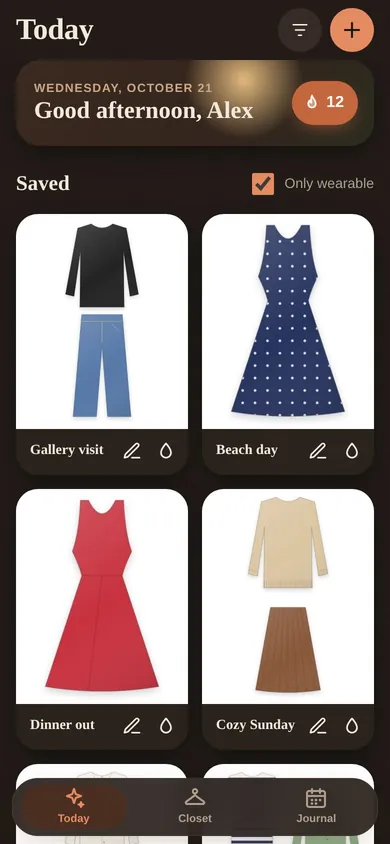
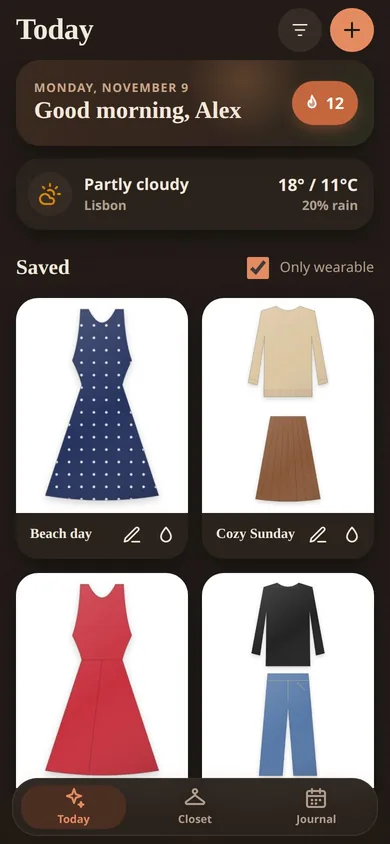
Drop section boxes, mark external links, refresh app screenshots
- Sections are no longer boxed cards: a hairline and whitespace separate
  them, and a soft fade behind the text column keeps it legible over the
  3D stage. Section padding is reduced to match.
- Every link to another site shows an external-link icon and opens in a
  new tab, with a screen-reader hint.
- SchafPlay screenshot replaced with an in-game shot of the redesigned
  app (single image; the app no longer has a dark mode).
- FitFinder screenshots regenerated (adds the weather card); the phone
  now sits beside the whole section and is sized to match the text.

diff --git a/index.html b/index.html
@@ -56,6 +56,7 @@
 <body>
 <svg class="sprite" aria-hidden="true">
   <symbol id="i-close" viewBox="0 0 24 24" fill="none" stroke="currentColor" stroke-width="2" stroke-linecap="round"><path d="M6 6l12 12M18 6 6 18"/></symbol>
+  <symbol id="i-external" viewBox="0 0 24 24" fill="none" stroke="currentColor" stroke-width="2" stroke-linecap="round" stroke-linejoin="round"><path d="M14 4h6v6M20 4l-9 9M18 14v4a2 2 0 0 1-2 2H6a2 2 0 0 1-2-2V8a2 2 0 0 1 2-2h4"/></symbol>
   <symbol id="i-download" viewBox="0 0 24 24" fill="none" stroke="currentColor" stroke-width="2" stroke-linecap="round" stroke-linejoin="round"><path d="M12 4v11m0 0-4.5-4.5M12 15l4.5-4.5M5 20h14"/></symbol>
   <marker id="arrow" viewBox="0 0 10 10" refX="9" refY="5" markerWidth="7" markerHeight="7" orient="auto-start-reverse"><path class="d-h" d="M0 0 10 5 0 10z"/></marker>
   <marker id="arrow-hl" viewBox="0 0 10 10" refX="9" refY="5" markerWidth="7" markerHeight="7" orient="auto-start-reverse"><path class="d-h hl" d="M0 0 10 5 0 10z"/></marker>
@@ -128,8 +129,8 @@
             <svg viewBox="0 0 24 24" fill="none" stroke="currentColor" stroke-width="2" stroke-linecap="round" stroke-linejoin="round" aria-hidden="true"><rect x="3" y="5" width="18" height="14" rx="2.5"/><path d="m4 7 8 6 8-6"/></svg>Email me</a>
           <a class="btn" href="cv/Emanuel-Medina-CV.pdf" download>
             <svg aria-hidden="true"><use href="#i-download"/></svg>Download CV</a>
-          <a class="btn" href="https://github.com/EmanuelMedinaAraujo" rel="me">GitHub</a>
-          <a class="btn" href="https://linkedin.com/in/Emanuel-Medina-Araujo" rel="me">LinkedIn</a>
+          <a class="btn" href="https://github.com/EmanuelMedinaAraujo" rel="me noopener" target="_blank">GitHub<svg aria-hidden="true"><use href="#i-external"/></svg><span class="sr-only"> (opens in a new tab)</span></a>
+          <a class="btn" href="https://linkedin.com/in/Emanuel-Medina-Araujo" rel="me noopener" target="_blank">LinkedIn<svg aria-hidden="true"><use href="#i-external"/></svg><span class="sr-only"> (opens in a new tab)</span></a>
         </div>
         <ul class="skills" aria-label="Core skills">
           <li>C#</li><li>Java</li><li>TypeScript</li><li>Python</li><li>C/C++</li><li>Unity</li><li>React</li><li>PyTorch</li><li>WebRTC</li>
@@ -178,7 +179,7 @@
         </ul>
         <ul class="tagrow" aria-label="Technologies"><li>Unity</li><li>C#</li><li>OpenDRIVE</li><li>Rider</li></ul>
         <div class="links">
-          <a class="btn btn-sm" href="https://www.vector.com/en/product/dyna4/dyna4-releases/">Announced by Vector (DYNA4 Release 10)</a>
+          <a class="btn btn-sm" href="https://www.vector.com/en/product/dyna4/dyna4-releases/" target="_blank" rel="noopener">Announced by Vector (DYNA4 Release 10)<svg aria-hidden="true"><use href="#i-external"/></svg><span class="sr-only"> (opens in a new tab)</span></a>
         </div>
       </div>
     </section>
@@ -196,7 +197,7 @@
         </ul>
         <ul class="tagrow" aria-label="Technologies"><li>Java</li><li>Eclipse RCP</li><li>JUnit</li><li>Jenkins</li></ul>
         <div class="links">
-          <a class="btn btn-sm" href="https://www.vector.com/en/product/dyna4/">DYNA4 at Vector</a>
+          <a class="btn btn-sm" href="https://www.vector.com/en/product/dyna4/" target="_blank" rel="noopener">DYNA4 at Vector<svg aria-hidden="true"><use href="#i-external"/></svg><span class="sr-only"> (opens in a new tab)</span></a>
         </div>
       </div>
     </section>
@@ -214,7 +215,7 @@
         <ul class="tagrow" aria-label="Technologies"><li>React</li><li>TypeScript</li><li>Supabase</li><li>Post-quantum encryption</li></ul>
         <div class="links">
           <a class="btn btn-sm btn-primary" href="#deep-loveneverdies" data-deep="deep-loveneverdies">Deep dive</a>
-          <a class="btn btn-sm" href="https://github.com/EmanuelMedinaAraujo/LoveNeverDies">Source on GitHub</a>
+          <a class="btn btn-sm" href="https://github.com/EmanuelMedinaAraujo/LoveNeverDies" rel="noopener" target="_blank">Source on GitHub<svg aria-hidden="true"><use href="#i-external"/></svg><span class="sr-only"> (opens in a new tab)</span></a>
         </div>
       </div>
     </section>
@@ -226,14 +227,13 @@
         <p class="sub">React / TypeScript / WebRTC</p>
         <p>Schafkopf, the Bavarian card game, to play solo or with a friend on the same Wi-Fi. <b>No accounts and no server</b>: two devices connect directly through a QR code or link, and computer players fill the other seats. Each device only ever receives its own cards, so <b>nobody can peek</b>.</p>
         <figure class="shot">
-          <img class="img-light" src="assets/schafplay-light.webp" width="844" height="390" loading="lazy" decoding="async" alt="SchafPlay pairing screen with host, guest and solo modes and a compressed invite code.">
-          <img class="img-dark" src="assets/schafplay-dark.webp" width="844" height="390" loading="lazy" decoding="async" alt="">
+          <img src="assets/schafplay-table.webp" width="1266" height="585" loading="lazy" decoding="async" alt="A SchafPlay round in progress: three computer players around a wooden table in an Alpine meadow have played their cards, and the player's hand of eight cards is fanned out at the bottom.">
         </figure>
         <ul class="tagrow" aria-label="Technologies"><li>React</li><li>TypeScript</li><li>WebRTC</li><li>Offline app (PWA)</li></ul>
         <div class="links">
           <a class="btn btn-sm btn-primary" href="#deep-schafplay" data-deep="deep-schafplay">Deep dive</a>
-          <a class="btn btn-sm" href="https://emanuelmedinaaraujo.github.io/SchafPlay/">Play it</a>
-          <a class="btn btn-sm" href="https://github.com/EmanuelMedinaAraujo/SchafPlay">Source</a>
+          <a class="btn btn-sm" href="https://emanuelmedinaaraujo.github.io/SchafPlay/" rel="noopener" target="_blank">Play it<svg aria-hidden="true"><use href="#i-external"/></svg><span class="sr-only"> (opens in a new tab)</span></a>
+          <a class="btn btn-sm" href="https://github.com/EmanuelMedinaAraujo/SchafPlay" rel="noopener" target="_blank">Source<svg aria-hidden="true"><use href="#i-external"/></svg><span class="sr-only"> (opens in a new tab)</span></a>
         </div>
       </div>
     </section>
@@ -259,7 +259,7 @@
         <div class="links">
           <a class="btn btn-sm btn-primary" href="#deep-thesis" data-deep="deep-thesis">Deep dive</a>
           <a class="btn btn-sm" href="papers/learning-based-inverse-kinematics.pdf">Read the thesis (PDF, 46 pages)</a>
-          <a class="btn btn-sm" href="https://github.com/EmanuelMedinaAraujo/BachelorThesis">Source on GitHub</a>
+          <a class="btn btn-sm" href="https://github.com/EmanuelMedinaAraujo/BachelorThesis" rel="noopener" target="_blank">Source on GitHub<svg aria-hidden="true"><use href="#i-external"/></svg><span class="sr-only"> (opens in a new tab)</span></a>
           <a class="btn btn-sm" href="papers/numerical-inverse-kinematics.pdf">2023 seminar paper (PDF)</a>
         </div>
       </div>
@@ -267,13 +267,13 @@
 
     <section class="sec" id="fitfinder" aria-labelledby="ff-title">
       <div class="card">
+        <figure class="shot phone inline">
+          <img class="img-light" src="assets/fitfinder-today-light.webp" width="390" height="844" loading="lazy" decoding="async" alt="FitFinder Today screen with a greeting, today’s weather and saved outfits that are wearable now.">
+          <img class="img-dark" src="assets/fitfinder-today-dark.webp" width="390" height="844" loading="lazy" decoding="async" alt="">
+        </figure>
         <p class="kicker"><span class="n">06</span> Side project</p>
         <h2 id="ff-title">FitFinder</h2>
         <p class="sub">Wardrobe organizer · iPhone web app</p>
-        <figure class="shot phone inline">
-          <img class="img-light" src="assets/fitfinder-today-light.webp" width="390" height="844" loading="lazy" decoding="async" alt="FitFinder Today screen showing saved outfits that are wearable now.">
-          <img class="img-dark" src="assets/fitfinder-today-dark.webp" width="390" height="844" loading="lazy" decoding="async" alt="">
-        </figure>
         <p>Your whole wardrobe on your phone: photograph each piece once, sort it, put outfits together and pick <b>today’s</b> in seconds. Works offline.</p>
         <ul class="tagrow" aria-label="Technologies"><li>TypeScript</li><li>Vite</li><li>Offline-first</li></ul>
       </div>
@@ -330,8 +330,8 @@
         <div class="links">
           <a class="btn btn-primary" href="mailto:medina.emanuel@proton.me">Email me</a>
           <a class="btn" href="cv/Emanuel-Medina-CV.pdf" download>Download CV</a>
-          <a class="btn" href="https://github.com/EmanuelMedinaAraujo" rel="me">GitHub</a>
-          <a class="btn" href="https://linkedin.com/in/Emanuel-Medina-Araujo" rel="me">LinkedIn</a>
+          <a class="btn" href="https://github.com/EmanuelMedinaAraujo" rel="me noopener" target="_blank">GitHub<svg aria-hidden="true"><use href="#i-external"/></svg><span class="sr-only"> (opens in a new tab)</span></a>
+          <a class="btn" href="https://linkedin.com/in/Emanuel-Medina-Araujo" rel="me noopener" target="_blank">LinkedIn<svg aria-hidden="true"><use href="#i-external"/></svg><span class="sr-only"> (opens in a new tab)</span></a>
         </div>
       </div>
     </section>
@@ -406,7 +406,7 @@
     </ul>
     <h3>Stack</h3>
     <ul class="stack"><li>React 19</li><li>TypeScript</li><li>Vite</li><li>PWA</li><li>Supabase</li><li>Postgres RLS</li><li>Edge Functions</li><li>Clerk</li><li>@noble/post-quantum</li><li>WebCrypto</li><li>Vitest</li><li>PGlite</li><li>Playwright</li></ul>
-    <div class="deep-foot"><a class="btn btn-sm btn-primary" href="https://github.com/EmanuelMedinaAraujo/LoveNeverDies">Read the source</a></div>
+    <div class="deep-foot"><a class="btn btn-sm btn-primary" href="https://github.com/EmanuelMedinaAraujo/LoveNeverDies" rel="noopener" target="_blank">Read the source<svg aria-hidden="true"><use href="#i-external"/></svg><span class="sr-only"> (opens in a new tab)</span></a></div>
   </div>
 </dialog>
 
@@ -463,7 +463,7 @@
     </ul>
     <h3>Stack</h3>
     <ul class="stack"><li>React 19</li><li>TypeScript</li><li>Vite</li><li>WebRTC</li><li>CompressionStream</li><li>IndexedDB</li><li>Service Worker</li><li>Playwright</li><li>GitHub Actions</li></ul>
-    <div class="deep-foot"><a class="btn btn-sm btn-primary" href="https://emanuelmedinaaraujo.github.io/SchafPlay/">Play it</a><a class="btn btn-sm" href="https://github.com/EmanuelMedinaAraujo/SchafPlay">Read the source</a></div>
+    <div class="deep-foot"><a class="btn btn-sm btn-primary" href="https://emanuelmedinaaraujo.github.io/SchafPlay/" rel="noopener" target="_blank">Play it<svg aria-hidden="true"><use href="#i-external"/></svg><span class="sr-only"> (opens in a new tab)</span></a><a class="btn btn-sm" href="https://github.com/EmanuelMedinaAraujo/SchafPlay" rel="noopener" target="_blank">Read the source<svg aria-hidden="true"><use href="#i-external"/></svg><span class="sr-only"> (opens in a new tab)</span></a></div>
   </div>
 </dialog>
 
@@ -519,7 +519,7 @@
     </ul>
     <h3>Stack</h3>
     <ul class="stack"><li>Python</li><li>PyTorch</li><li>Stable-Baselines3</li><li>Gymnasium</li><li>Hydra</li><li>Optuna</li><li>Weights &amp; Biases</li></ul>
-    <div class="deep-foot"><a class="btn btn-sm btn-primary" href="papers/learning-based-inverse-kinematics.pdf">Read the thesis (PDF)</a><a class="btn btn-sm" href="https://github.com/EmanuelMedinaAraujo/BachelorThesis">Read the source</a></div>
+    <div class="deep-foot"><a class="btn btn-sm btn-primary" href="papers/learning-based-inverse-kinematics.pdf">Read the thesis (PDF)</a><a class="btn btn-sm" href="https://github.com/EmanuelMedinaAraujo/BachelorThesis" rel="noopener" target="_blank">Read the source<svg aria-hidden="true"><use href="#i-external"/></svg><span class="sr-only"> (opens in a new tab)</span></a></div>
   </div>
 </dialog>
 

diff --git a/styles.css b/styles.css
@@ -108,9 +108,15 @@ html:not(.gl) #stage{display:none}
 main{position:relative;z-index:2;pointer-events:none}
 .col{width:min(560px,calc(100% - 32px));margin-left:max(24px,5vw)}
 html:not(.gl) .col{margin:0 auto;width:min(720px,calc(100% - 32px))}
-.sec{display:flex;flex-direction:column;justify-content:center;padding:clamp(28px,7vh,72px) 0}
+.sec{display:flex;flex-direction:column;justify-content:center;padding:clamp(20px,4vh,40px) 0}
 .sec.tall{min-height:100vh;min-height:100svh}
-.card{display:flow-root;pointer-events:auto;background:var(--card);backdrop-filter:blur(16px) saturate(1.2);-webkit-backdrop-filter:blur(16px) saturate(1.2);border:1px solid var(--line);border-radius:var(--r);padding:clamp(22px,3vw,32px);box-shadow:var(--shadow)}
+.card{display:flow-root;pointer-events:auto}
+/* No boxes: sections are separated by space and a hairline. */
+.sec:not(.hero) .card{border-top:1px solid var(--line-2);padding-top:var(--s6)}
+/* Keep text legible over the 3D stage with a soft fade instead of a panel. */
+.gl main::before{content:"";position:fixed;inset:0;z-index:-1;pointer-events:none;
+  background:linear-gradient(90deg,var(--bg) 0,color-mix(in srgb,var(--bg) 92%,transparent) min(620px,52vw),transparent min(900px,70vw))}
+.sr-only{position:absolute;width:1px;height:1px;padding:0;margin:-1px;overflow:hidden;clip:rect(0 0 0 0);white-space:nowrap;border:0}
 .kicker{display:flex;align-items:center;gap:8px;font-size:12px;font-weight:500;line-height:1.3;color:var(--mute)}
 .kicker .n{color:var(--acc-ink)}
 h1,h2,h3{letter-spacing:-.03em;line-height:1.05;font-weight:680}
@@ -165,7 +171,7 @@ html:not(.gl) .hint{display:none}
 .shot{margin:var(--s4) 0 0;border-radius:14px;overflow:hidden;border:1px solid var(--line);background:var(--bg-2)}
 .shot img{width:100%;height:auto}
 .shot.phone{width:min(220px,58%);border-radius:28px;border:7px solid #111;background:#111;margin-top:var(--s4)}
-.shot.phone.inline{float:right;margin:0 0 8px 16px;width:150px;border-width:5px;border-radius:22px}
+.shot.phone.inline{float:right;margin:0 0 0 24px;width:114px;border-width:4px;border-radius:18px}
 .img-dark{display:none!important}
 [data-theme="dark"] .img-light{display:none!important}
 [data-theme="dark"] .img-dark{display:block!important}
@@ -256,18 +262,16 @@ html:not(.js) .deep-head .close{display:none}
   html{scroll-padding-top:calc(var(--header) + var(--chips) + 12px)}
   html:not(.gl) .sec{min-height:auto;padding:var(--s4) 0}
   html:not(.gl) .sec.hero{padding-top:calc(var(--header) + var(--chips) + 24px)}
-  .card{padding:20px;border-radius:18px}
-  [data-theme] .card{background:var(--card-solid)}
   .hero h1{font-size:clamp(46px,14vw,64px)}
   .btn{padding:0 15px}
   .stats b{font-size:24px}
   .bars li{grid-template-columns:118px 1fr 46px;font-size:12.5px}
-  .shot.phone.inline{width:118px}
   .header-actions .btn-cv span{display:none}
 }
 /* Phones and tablets held upright: the 3D stage is a fixed band at the bottom and the
    cards scroll above it, so nothing ever covers the arm or the active exhibit. */
 @media (max-width:899px) and (orientation:portrait){
+  .gl main::before{display:none}
   :root{--band:clamp(180px,32svh,360px);--band-h:calc(var(--band) + env(safe-area-inset-bottom,0px))}
   .gl #stage{top:auto;bottom:0;height:var(--band-h);z-index:5;box-shadow:0 -1px 0 var(--line)}
   .gl .tags{z-index:6;top:auto;bottom:0;height:var(--band-h);overflow:hidden}
@@ -297,5 +301,4 @@ html:not(.js) .deep-head .close{display:none}
   #stage,.tags,.hud,.rail,.chips,.site-header,.stage-fallback{display:none!important}
   .col{margin:0 auto!important;width:100%!important}
   .sec{min-height:0!important;padding:8px 0!important}
-  .card{box-shadow:none;background:#fff;border-color:#ddd}
 }
